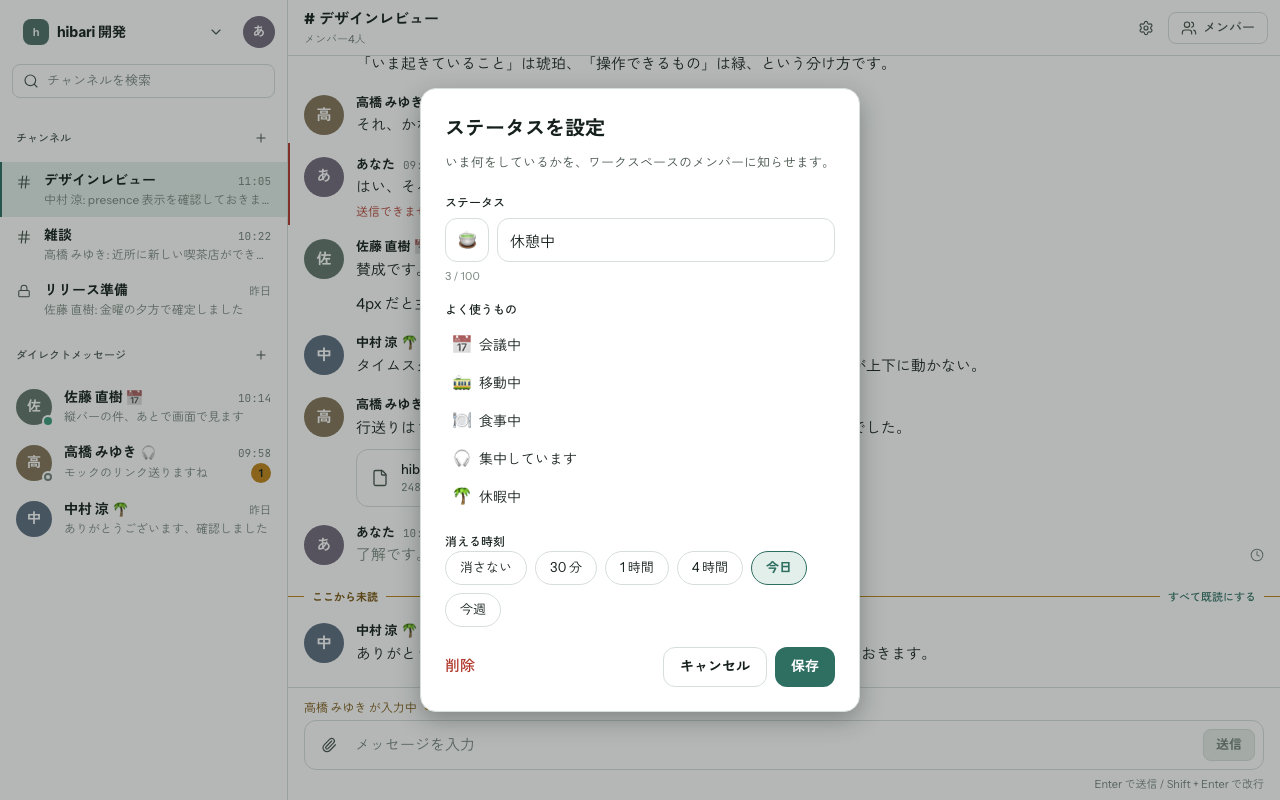
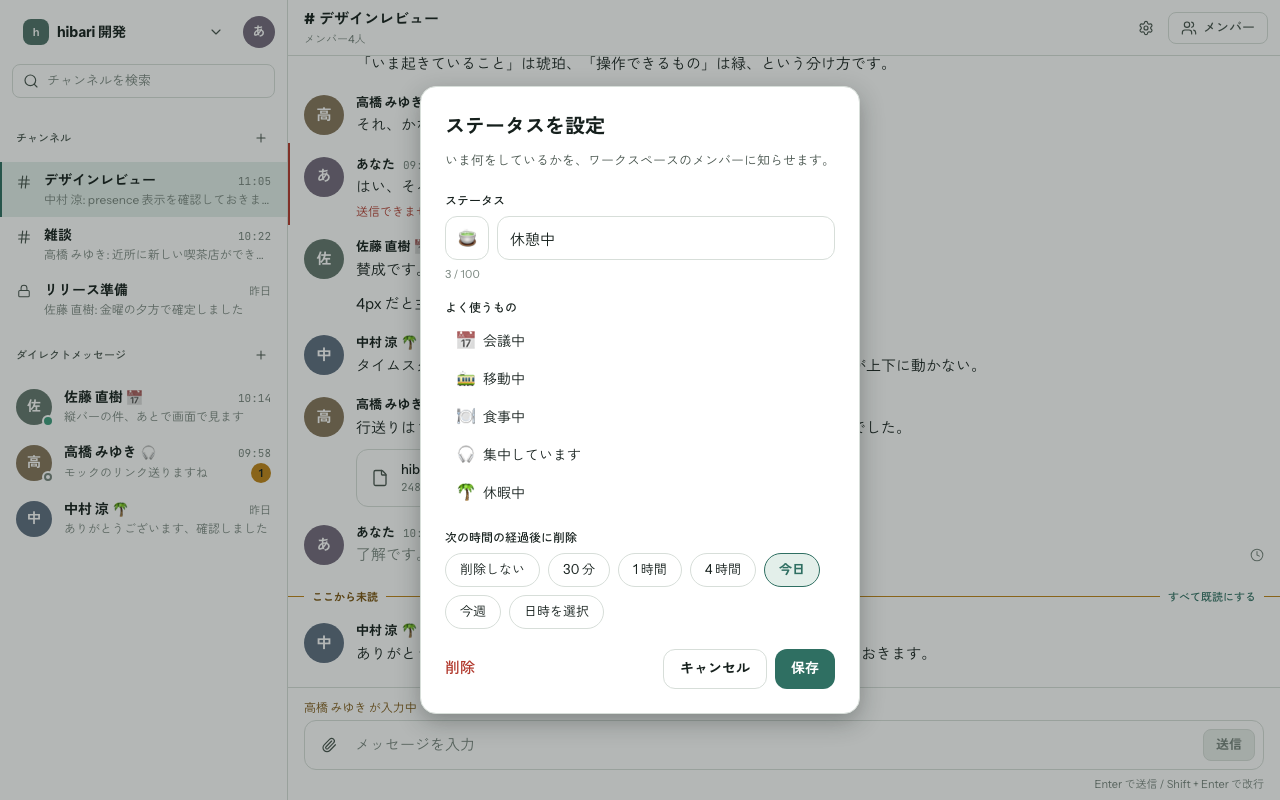
fix(web): ステータスのダイアログを Slack の文言にそろえ、日時の選択とホバーの期限を足す
オーナーの指摘（2026-09-21）。

- 節（ラベルと中身）の余白を、どこも入力欄と同じ 6px にそろえる（Section にまとめた）
- 「消える時刻」→「次の時間の経過後に削除」、「消さない」→「削除しない」（Slack の文言）
- 「日時を選択」を足す。日付と時刻の入力を出し、カレンダーはブラウザのものを使う
- ステータスのホバーと読み上げに「いつまで」を出す（Slack と同じ）。
  メンバーパネルはロール・文言の横にそのまま出す

story と PNG を 1 枚足した（status-dialog-custom）。影響した 6 枚は撮り直し。

diff --git a/web/components/chat/status-dialog.tsx b/web/components/chat/status-dialog.tsx
@@ -1,6 +1,6 @@
 "use client";
 
-import { useRef } from "react";
+import { type ReactNode, useRef } from "react";
 
 import { AnchoredPanel } from "@/components/ui/anchored-panel";
 import { Button, TextButton } from "@/components/ui/button";
@@ -14,20 +14,22 @@ import { EmojiPicker } from "./emoji-picker";
 import type { UserStatusView } from "./types";
 
 /**
- * ステータスが消える時刻の選び方（ADR 0049 決定 10）。
+ * ステータスを消す時刻の選び方（ADR 0049 決定 10）。文言も並びも Slack の「次の時間の経過後に削除」に合わせる。
  *
  * **相対の選択肢を絶対の時刻にするのはクライアント**（サーバーはユーザーのタイムゾーンを知らない）。
  * ここは選ばれた種類を持つだけで、時刻の計算はデータ層（構築順 4）が `Clock` で行う。
+ * `custom` だけは、下に出る日付と時刻の入力から絶対の時刻を作る。
  */
-export type StatusExpiry = "none" | "30m" | "1h" | "4h" | "today" | "week";
+export type StatusExpiry = "none" | "30m" | "1h" | "4h" | "today" | "week" | "custom";
 
 export const statusExpiryLabel: Record<StatusExpiry, string> = {
-  none: "消さない",
+  none: "削除しない",
   "30m": "30 分",
   "1h": "1 時間",
   "4h": "4 時間",
   today: "今日",
   week: "今週",
+  custom: "日時を選択",
 };
 
 /** よく使うステータスの候補。Slack と同じく、押すと絵文字と文言がそのまま入る。 */
@@ -45,12 +47,17 @@ export const STATUS_TEXT_MAX = 100;
 /** 文言だけを書いたときに添える絵文字。サーバーは絵文字を必須にしているので、クライアントが入れる。 */
 export const DEFAULT_STATUS_EMOJI = "💬";
 
+/** 「日時を選択」で入れる値。`<input type="date" / "time">` の形式のまま持ち、絶対の時刻にするのはデータ層。 */
+export type StatusExpiryCustom = { date: string; time: string };
+
 type StatusDialogProps = {
   open: boolean;
   /** いま選んでいる絵文字。未選択なら既定の絵文字を出す。 */
   emoji?: string;
   text: string;
   expiry: StatusExpiry;
+  /** `expiry` が custom のときに出す日付と時刻。 */
+  custom?: StatusExpiryCustom;
   /** 絵文字のピッカーを開いている。 */
   pickerOpen?: boolean;
   /** すでに設定してある（「削除」を出すか）。 */
@@ -60,6 +67,7 @@ type StatusDialogProps = {
   onPickEmoji?: (emoji: string) => void;
   onChangeText?: (text: string) => void;
   onChangeExpiry?: (expiry: StatusExpiry) => void;
+  onChangeCustom?: (custom: StatusExpiryCustom) => void;
   onSelectPreset?: (preset: UserStatusView) => void;
   onSave?: () => void;
   onClear?: () => void;
@@ -68,7 +76,23 @@ type StatusDialogProps = {
 };
 
 /**
- * カスタムステータスを設定するダイアログ（ADR 0049）。
+ * ラベルと中身の組。入力欄（`Field`）と同じラベルの見た目・同じ余白（gap-1.5）にそろえる。
+ * 節ごとに余白を書いていたら、見出しと中身の距離がばらついた（オーナーの指摘、2026-09-21）。
+ */
+function Section({ label, children }: { label: string; children: ReactNode }) {
+  return (
+    <div className="flex flex-col gap-1.5">
+      <p className="text-xs font-medium text-text">{label}</p>
+      {children}
+    </div>
+  );
+}
+
+// 日付・時刻の入力。カレンダーはブラウザのものが開く（自前のカレンダーは作らない）。
+const dateInputClass = "h-11 rounded-md border border-border bg-surface px-3 text-lg text-text focus-visible:-outline-offset-2";
+
+/**
+ * カスタムステータスを設定するダイアログ（ADR 0049）。文言と選択肢は Slack に合わせる。
  *
  * 絵文字は 6.7 のピッカーをそのまま使う。開き方もリアクションと同じで、
  * md 以上は絵文字のボタンに合わせて**画面に浮かせ**、モバイルは下から出るシートにする（ADR 0044 決定 7）。
@@ -79,6 +103,7 @@ export function StatusDialog({
   emoji = DEFAULT_STATUS_EMOJI,
   text,
   expiry,
+  custom,
   pickerOpen = false,
   canClear = false,
   onClose,
@@ -86,6 +111,7 @@ export function StatusDialog({
   onPickEmoji,
   onChangeText,
   onChangeExpiry,
+  onChangeCustom,
   onSelectPreset,
   onSave,
   onClear,
@@ -166,15 +192,15 @@ export function StatusDialog({
             </Portal>
           ))}
 
-        <div className="flex flex-col gap-2">
-          <p className="text-xs font-medium text-text">よく使うもの</p>
+        <Section label="よく使うもの">
+          {/* 行そのものに余白があるので、見出しとの距離は行の内側の余白ぶんだけ詰めて見える。左端は入力欄とそろえる */}
           <ul className="flex flex-col">
             {statusPresets.map((preset) => (
               <li key={preset.emoji}>
                 <button
                   type="button"
                   onClick={() => onSelectPreset?.(preset)}
-                  className="flex h-9.5 w-full cursor-pointer items-center gap-2 rounded-sm px-2 text-left text-base text-text hover:bg-surface-muted"
+                  className="flex h-9.5 w-full cursor-pointer items-center gap-2 rounded-sm px-3 text-left text-base text-text hover:bg-surface-muted"
                 >
                   <span role="img" aria-hidden>
                     {preset.emoji}
@@ -184,24 +210,46 @@ export function StatusDialog({
               </li>
             ))}
           </ul>
-        </div>
+        </Section>
 
-        <fieldset className="flex flex-col gap-2">
-          <legend className="text-xs font-medium text-text">消える時刻</legend>
-          <div className="flex flex-wrap gap-2">
-            {(Object.keys(statusExpiryLabel) as StatusExpiry[]).map((value) => (
-              <ChoiceChip
-                key={value}
-                name="status-expiry"
-                value={value}
-                checked={expiry === value}
-                onChange={(picked) => onChangeExpiry?.(picked as StatusExpiry)}
-              >
-                {statusExpiryLabel[value]}
-              </ChoiceChip>
-            ))}
+        {/* 文言と選択肢は Slack に合わせる（オーナーの指摘、2026-09-21） */}
+        <Section label="次の時間の経過後に削除">
+          <div className="flex flex-col gap-2">
+            <div className="flex flex-wrap gap-2">
+              {(Object.keys(statusExpiryLabel) as StatusExpiry[]).map((value) => (
+                <ChoiceChip
+                  key={value}
+                  name="status-expiry"
+                  value={value}
+                  checked={expiry === value}
+                  onChange={(picked) => onChangeExpiry?.(picked as StatusExpiry)}
+                >
+                  {statusExpiryLabel[value]}
+                </ChoiceChip>
+              ))}
+            </div>
+            {expiry === "custom" && (
+              // カレンダーはブラウザのものが開く（自前のカレンダーは作らない）。
+              // 入れた日時を絶対の時刻にするのはデータ層で、端末のタイムゾーンで解釈する
+              <div className="flex flex-wrap gap-2">
+                <input
+                  type="date"
+                  aria-label="削除する日付"
+                  value={custom?.date ?? ""}
+                  onChange={(e) => onChangeCustom?.({ date: e.target.value, time: custom?.time ?? "" })}
+                  className={dateInputClass}
+                />
+                <input
+                  type="time"
+                  aria-label="削除する時刻"
+                  value={custom?.time ?? ""}
+                  onChange={(e) => onChangeCustom?.({ date: custom?.date ?? "", time: e.target.value })}
+                  className={dateInputClass}
+                />
+              </div>
+            )}
           </div>
-        </fieldset>
+        </Section>
       </div>
     </Dialog>
   );

diff --git a/web/components/chat/status-dialog.test.tsx b/web/components/chat/status-dialog.test.tsx
@@ -1,4 +1,4 @@
-import { render, screen } from "@testing-library/react";
+import { fireEvent, render, screen } from "@testing-library/react";
 import userEvent from "@testing-library/user-event";
 import { describe, expect, it, vi } from "vitest";
 
@@ -43,13 +43,38 @@ describe("StatusDialog（ADR 0049）", () => {
     expect(onChangeText).toHaveBeenCalledWith("あ");
   });
 
-  it("消える時刻を選ぶと、選んだ種類が渡る（絶対の時刻にするのはデータ層）", async () => {
+  it("消す時刻を選ぶと、選んだ種類が渡る（絶対の時刻にするのはデータ層）", async () => {
     const onChangeExpiry = vi.fn();
     render(<StatusDialog open text="休憩中" expiry="none" onChangeExpiry={onChangeExpiry} />);
 
+    // 文言と並びは Slack に合わせてある
+    expect(screen.getByText("次の時間の経過後に削除")).toBeInTheDocument();
+    expect(screen.getByRole("radio", { name: "削除しない" })).toBeChecked();
     await userEvent.click(screen.getByRole("radio", { name: "1 時間" }));
 
     expect(onChangeExpiry).toHaveBeenCalledWith("1h");
+  });
+
+  it("「日時を選択」のときだけ、日付と時刻の入力を出す", async () => {
+    const onChangeCustom = vi.fn();
+    const { rerender } = render(<StatusDialog open text="休憩中" expiry="today" />);
+    expect(screen.queryByLabelText("削除する日付")).not.toBeInTheDocument();
+
+    rerender(
+      <StatusDialog
+        open
+        text="休憩中"
+        expiry="custom"
+        custom={{ date: "2026-09-25", time: "17:00" }}
+        onChangeCustom={onChangeCustom}
+      />,
+    );
+
+    expect(screen.getByLabelText("削除する日付")).toHaveValue("2026-09-25");
+    expect(screen.getByLabelText("削除する時刻")).toHaveValue("17:00");
+    // 片方を変えても、もう片方は保たれる（props で値を持つので、1 回の change で確かめる）
+    fireEvent.change(screen.getByLabelText("削除する時刻"), { target: { value: "18:30" } });
+    expect(onChangeCustom).toHaveBeenLastCalledWith({ date: "2026-09-25", time: "18:30" });
   });
 
   it("絵文字のボタンでピッカーを開け閉めする", async () => {

diff --git a/web/components/chat/user-status.tsx b/web/components/chat/user-status.tsx
@@ -6,12 +6,14 @@ import type { UserStatusView } from "./types";
  * カスタムステータスの絵文字（ADR 0049）。名前の横に出す。
  *
  * 文言はここでは出さない（名前の行の長さが人によってばらばらになるため）。
- * 文言はホバーの `title` と読み上げに載せ、そのまま読める場所はメンバーパネルとプロフィールのカード（6.9）にする。
+ * 文言と「いつ消えるか」はホバーの `title` と読み上げに載せる（Slack と同じ）。
+ * そのまま読める場所はメンバーパネルとプロフィールのカード（6.9）にする。
  */
 export function StatusEmoji({ status, className }: { status: UserStatusView; className?: string }) {
-  const label = status.text ? `ステータス: ${status.emoji} ${status.text}` : `ステータス: ${status.emoji}`;
+  const hint = [status.text, status.expiresLabel].filter(Boolean).join(" · ");
+  const label = hint ? `ステータス: ${status.emoji} ${hint}` : `ステータス: ${status.emoji}`;
   return (
-    <span role="img" aria-label={label} title={status.text} className={cx("shrink-0 leading-none", className)}>
+    <span role="img" aria-label={label} title={hint || undefined} className={cx("shrink-0 leading-none", className)}>
       {status.emoji}
     </span>
   );

diff --git a/web/stories/screens.tsx b/web/stories/screens.tsx
@@ -166,7 +166,7 @@ type ChatOptions = {
    * - status-dialog: ステータスを設定するダイアログ（`picker` は絵文字のピッカーを開いたところ）
    */
   presence?: boolean;
-  statusDialog?: "empty" | "filled" | "picker";
+  statusDialog?: "empty" | "filled" | "picker" | "custom";
   /**
    * ダークで描く画面。ふだんは囲いの `data-theme` だけで足りるが、
    * emoji-mart のようにテーマを JS の props で受け取る部品には、こちらから渡す必要がある（ADR 0044 決定 7）。
@@ -379,7 +379,8 @@ export function chat({
           open
           emoji={statusDialog === "empty" ? undefined : myStatus.emoji}
           text={statusDialog === "empty" ? "" : (myStatus.text ?? "")}
-          expiry={statusDialog === "empty" ? "none" : "today"}
+          expiry={statusDialog === "empty" ? "none" : statusDialog === "custom" ? "custom" : "today"}
+          custom={{ date: "2026-09-25", time: "17:00" }}
           pickerOpen={statusDialog === "picker"}
           canClear={statusDialog !== "empty"}
           theme={dark ? "dark" : "light"}

diff --git a/web/components/chat/members-panel.tsx b/web/components/chat/members-panel.tsx
@@ -41,10 +41,9 @@ export function MembersPanel({ members, onClose }: { members: RoomMemberView[]; 
                   <span className="truncate text-base font-semibold text-text">{member.name}</span>
                   {member.status && <StatusEmoji status={member.status} className="text-sm" />}
                 </p>
-                {/* ステータスの文言は、ここでは名前の下にそのまま読める形で出す（絵文字だけでは何か分からないため） */}
+                {/* ステータスの文言と「いつ消えるか」は、ここでは名前の下にそのまま読める形で出す */}
                 <p className="truncate text-2xs text-text-muted">
-                  {member.roleLabel}
-                  {member.status?.text && ` · ${member.status.text}`}
+                  {[member.roleLabel, member.status?.text, member.status?.expiresLabel].filter(Boolean).join(" · ")}
                 </p>
               </div>
             </li>

diff --git a/web/components/chat/types.ts b/web/components/chat/types.ts
@@ -11,9 +11,11 @@ export type RoomKind = "public" | "private" | "dm";
 
 /**
  * カスタムステータス（ADR 0049）。ワークスペースごとに持ち、絵文字は必須で文言は任意。
- * 期限（`expires_at`）は画面には出さないので持たない（過ぎたステータスはデータ層が落とす）。
+ *
+ * `expiresLabel` は「いつ消えるか」を整形した文言（「今日 17:00 まで」など。Slack と同じくホバーで見せる）。
+ * 期限のないステータスでは持たない。整形はデータ層が `Clock` の時刻を使って行う。
  */
-export type UserStatusView = { emoji: string; text?: string };
+export type UserStatusView = { emoji: string; text?: string; expiresLabel?: string };
 
 /** 画面に出すユーザー。avatarUrl は画像があるときだけ（署名付き。ADR 0020）。 */
 export type UserRef = { id: string; name: string; avatarUrl?: string; status?: UserStatusView };

diff --git a/web/stories/fixtures.ts b/web/stories/fixtures.ts
@@ -508,11 +508,11 @@ export const typingNames = [users.miyuki.name];
 // ---- 離席とカスタムステータス（ADR 0049。chat/presence/） ----
 
 /** 自分のステータス。アカウントメニューと設定のダイアログに出す。 */
-export const myStatus: UserStatusView = { emoji: "🍵", text: "休憩中" };
+export const myStatus: UserStatusView = { emoji: "🍵", text: "休憩中", expiresLabel: "今日 17:00 まで" };
 
 /** 誰がどのステータスを出しているか。名前の横・メンバーパネル・サイドバーの DM で同じ表を使う。 */
 const statuses: Readonly<Record<string, UserStatusView>> = {
-  [users.naoki.id]: { emoji: "📅", text: "会議中" },
+  [users.naoki.id]: { emoji: "📅", text: "会議中", expiresLabel: "11:30 まで" },
   [users.miyuki.id]: { emoji: "🎧", text: "集中しています" },
   [users.ryo.id]: { emoji: "🌴", text: "休暇中" },
 };

diff --git a/web/stories/chat/presence.stories.tsx b/web/stories/chat/presence.stories.tsx
@@ -72,6 +72,13 @@ export const StatusDialogPicker: Story = {
   render: () => chat({ presence: true, statusDialog: "picker" }),
 };
 
+/** 「日時を選択」を選ぶと、日付と時刻の入力が下に出る（カレンダーはブラウザのもの）。 */
+export const StatusDialogCustom: Story = {
+  name: "ステータスを設定（日時を選択）",
+  tags: ["since:6.8"],
+  render: () => chat({ presence: true, statusDialog: "custom" }),
+};
+
 export const MobileStatusDialog: Story = {
   name: "ステータスを設定（モバイル）",
   tags: ["since:6.8"],
